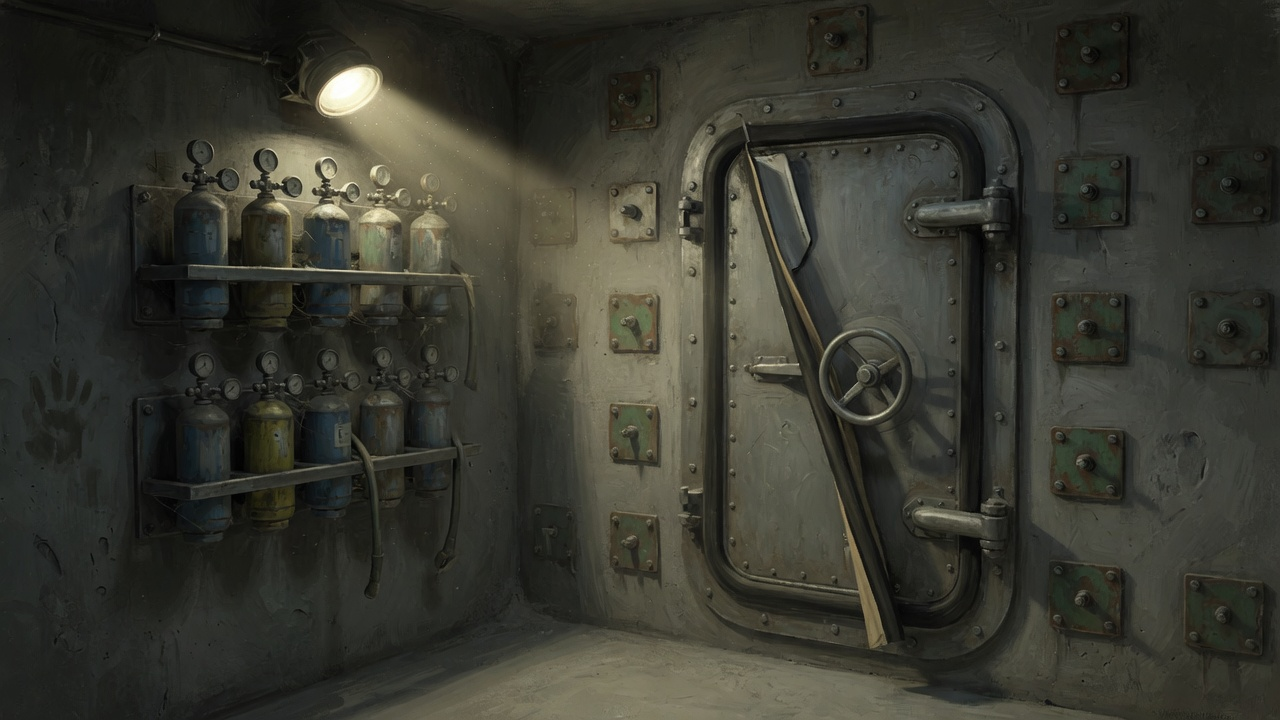
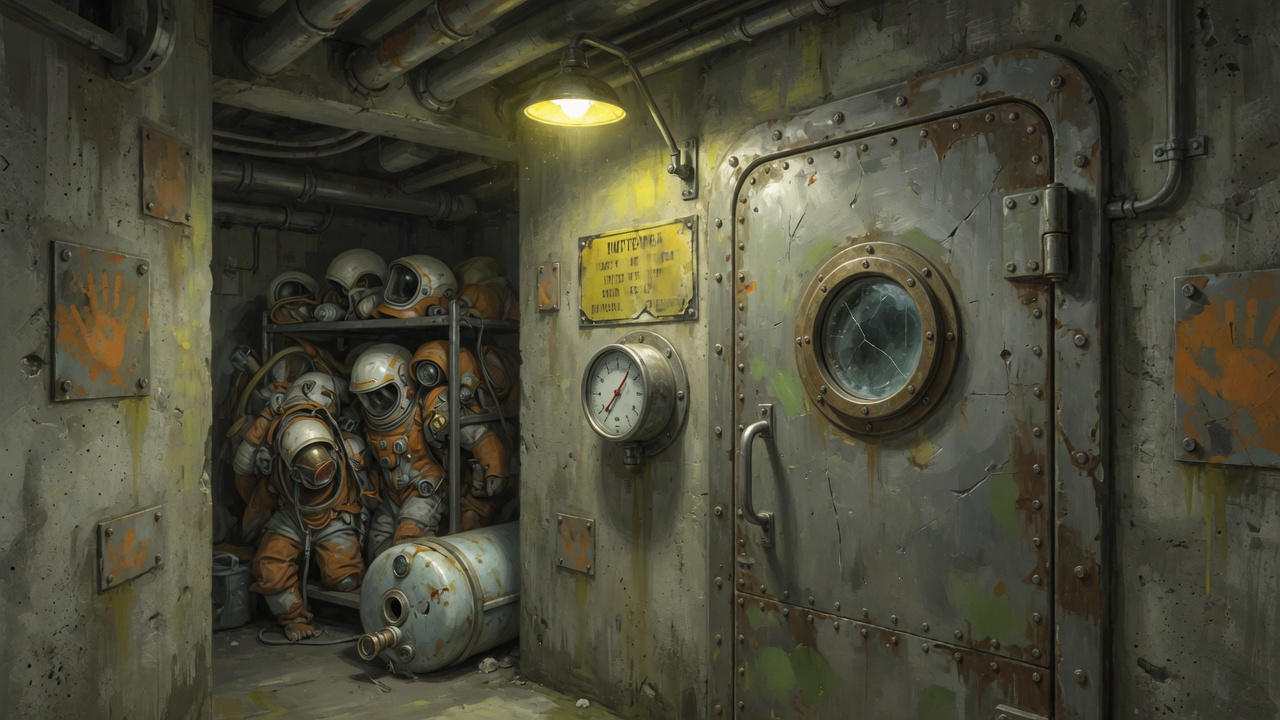
📎🔗 The plate, the docs and a rock you can actually boot onto (#619)
The painting is the new one from the inbox, to the owner's own prompt: an airless
corridor, a pressure-refuge door welded shut, a dead gauge at zero, an inspectorate
plate, and — beside the door — a rack with far too many suits on it and an emptied
reservoir on the deck. The manifest entry is rewritten to it, including the one place
the negative list bends (a plate the prompt asks for, painted as an illegible tag; the
plate the captain READS is drawn by the deck renderer and is not doubled in pixels).

?secretlab=sealed is the fourth cheat rock, and it exists because none of the other
three happens to carry the story — a welded refuge is on one floor of one site in four,
so the beat could not be reached from a URL at all. Same shape as ?secretlab=deep and
?found=1 before it: the rock's NAME is the site's whole seed, nothing Core says is
overridden, and a guard pins that secret-lab-site-sealed still carries it on B3 ·
LONG STORAGE — because a document full of confident URLs that land on the wrong floor
is worse than no document.

§13.12a re-measured (815 dead floors: 83.1 % holding, 16.9 % drawn down) and §13.12b
written: the law, the six surfaces in a table, and the numbers as the sweep reads them
today — 21 sites of 100 carry the story, 18 of those floors grew the second room, and
all 18 stand beside a working refuge. The three that did not are floors whose pool had
nothing left at the detour distance: the law is "never the only refuge on its floor",
[…]

diff --git a/tests/SpaceSails.Core.Tests/TheRefugeThatFailedTests.cs b/tests/SpaceSails.Core.Tests/TheRefugeThatFailedTests.cs
@@ -261,6 +261,31 @@ public sealed class TheRefugeThatFailedTests
         Assert.Equal(0, close);
     }
 
+    /// <summary>#619 · <b>THE CHEAT ROCK STILL REACHES THE BEAT.</b>
+    ///
+    /// <para><c>?secretlab=sealed</c> parks a rock whose body id is <c>secret-lab-site-sealed</c>, and a
+    /// site's whole shape is seeded off that id — so the URL reaches the refuge that failed by NAME rather
+    /// than by overriding anything from the client. The risk that buys is the one the deep rock's own
+    /// docblock names: a change to the seeding could quietly move the story off that site, and the cheat
+    /// would go on booting a perfectly ordinary building while the testing-links row promised a welded
+    /// door.</para>
+    ///
+    /// <para>The FLOOR is pinned too, because the row in <c>docs/testing-links-the-hive.md</c> says
+    /// <c>&amp;floor=3</c> — and a document full of confident URLs that land on the wrong floor is worse
+    /// than no document (§13.19's own lesson).</para></summary>
+    [Fact]
+    public void TheSealedCheatRockStillCarriesTheStoryOnB3()
+    {
+        const string Rock = "secret-lab-site-sealed";
+        Assert.Equal(-3, UndergroundComplex.FailedRefugeFloorOf(Rock));
+        Assert.Contains(-3, UndergroundComplex.FloorsOf(Rock));
+
+        UndergroundComplex.FloorPlan floor = UndergroundComplex.Build(Rock, -3, Field);
+        Assert.Single(floor.Refuges, r => r.State == UndergroundComplex.RefugeState.Failed);
+        Assert.Contains(floor.Refuges, r => r.State != UndergroundComplex.RefugeState.Failed);
+        Assert.Contains(floor.Locked, l => UndergroundComplex.IsTheWeldedRefugePlate(l.Sign));
+    }
+
     // ── THE WORDS ───────────────────────────────────────────────────────────────────────────────────────
 
     [Fact]

diff --git a/src/SpaceSails.Client/Pages/Map.Sim.Cheats.cs b/src/SpaceSails.Client/Pages/Map.Sim.Cheats.cs
@@ -143,6 +143,21 @@ public partial class Map
     /// it), and five copies of a magic string is the habit this repo's spec opens with a table of.</para></summary>
     private const string SecretLabFoundCheatBodyId = UndergroundComplex.FoundBandCheatSiteId;
 
+    /// <summary>#619 · The <c>?secretlab=sealed</c> rock, chosen exactly the way its siblings were: a site's
+    /// whole shape is seeded off its BODY ID, so reaching the refuge that failed from a URL is a matter of
+    /// parking a rock with the right name rather than of overriding a Core fact from the client.
+    ///
+    /// <para>The refuge that failed is on <b>one floor of one site in four</b>
+    /// (<c>UndergroundComplex.SitesPerFailedRefuge</c>), and none of the other three cheat rocks happens to
+    /// carry one — so the beat could not be reached from a URL at all, which is exactly the tax these cheats
+    /// exist to remove and exactly the sentence #592 wrote when it added the second rock.</para>
+    ///
+    /// <para>This one is an eight-floor site whose story is on <b>B3 · LONG STORAGE</b>, with the welded room
+    /// and a working refuge on the same floor — which is the whole law a tester has gone down there to look
+    /// at. The suffix is the search that found it and is not decoration: the generator's own dice decide
+    /// which ids carry the story.</para></summary>
+    private const string SecretLabSealedCheatBodyId = "secret-lab-site-sealed";
+
     private static BodyDefinition SecretLabSiteBody(string berthId, string id, string name) => new()
     {
         Id = id,

diff --git a/src/SpaceSails.Client/Pages/Map.Sim.World.Build.cs b/src/SpaceSails.Client/Pages/Map.Sim.World.Build.cs
@@ -140,11 +140,17 @@ public partial class Map
                 // #677 · Three rocks now, one cheat shape. `?found=1` is the deepest of them and it implies
                 // `?secretlab=1`, because there is no other way down: the halls hang off a band nobody
                 // listed, which hangs off a facility, which is reached through a shed.
+                // #619 · FOUR rocks now, one cheat shape. The fourth carries the refuge that failed, and it
+                // is chosen the same way the other three were: a site's whole shape is seeded off its body
+                // id, so a beat that is on one floor of one site in four becomes reachable from a URL
+                // without one Core fact being overridden from the client.
                 (string rockId, string rockName) = _foundCheat
                     ? (SecretLabFoundCheatBodyId, "The Hermit's Deep Rock")
                     : q.SecretlabDeep
                         ? (SecretLabDeepCheatBodyId, "The Deep Hermit's Rock")
-                        : (SecretLabCheatBodyId, "The Hermit's Rock");
+                        : q.SecretlabSealed
+                            ? (SecretLabSealedCheatBodyId, "The Sealed Hermit's Rock")
+                            : (SecretLabCheatBodyId, "The Hermit's Rock");
                 scenario = scenario with
                 {
                     Bodies = [.. scenario.Bodies, SecretLabSiteBody(berthId, rockId, rockName)],

diff --git a/src/SpaceSails.Client/Pages/Map.Sim.World.QueryArcs.cs b/src/SpaceSails.Client/Pages/Map.Sim.World.QueryArcs.cs
@@ -273,7 +273,7 @@ public partial class Map
             // Documented in the PR body. (Ordinary bodies hide labs rarely, off the seed — this is the
             // fast path.)
             string candidate = Uri.UnescapeDataString(pair["secretlab=".Length..]).ToLowerInvariant();
-            q.SecretlabCheat = candidate is "1" or "true" or "yes" or "deep";
+            q.SecretlabCheat = candidate is "1" or "true" or "yes" or "deep" or "sealed";
 
 
             // #592 · ?secretlab=deep parks a rock whose site HAS a band nobody listed. The ordinary
@@ -281,6 +281,12 @@ public partial class Map
             // with nothing under it, so #592 could not be reached from a URL at all — which is the exact
             // tax these cheats exist to remove.
             q.SecretlabDeep = candidate is "deep";
+
+            // #619 · ?secretlab=sealed parks a rock whose site carries THE REFUGE THAT FAILED, on B3. The
+            // same sentence as the one above, one feature along: the welded room is on one floor of one
+            // site in four, none of the other three cheat rocks happens to have one, and a beat nobody can
+            // reach on demand is a beat that ships broken.
+            q.SecretlabSealed = candidate is "sealed";
         }
         else if (pair.StartsWith("body=", StringComparison.OrdinalIgnoreCase))
         {

diff --git a/src/SpaceSails.Client/Pages/Map.Sim.World.cs b/src/SpaceSails.Client/Pages/Map.Sim.World.cs
@@ -61,6 +61,7 @@ public partial class Map
         public bool WreckCheat; // #488 /map?wreck=1: spawn a derelict in shuttle range — board her, read her, then file or strip
         public Derelict.WreckCause? WreckCauseCheat; // #488 /map?wreck=<cause>: board a wreck that died THAT way
         public bool SecretlabDeep; // #592 /map?secretlab=deep: the rock whose site hides a band
+        public bool SecretlabSealed; // #619 /map?secretlab=sealed: the rock whose site carries the refuge that failed (B3)
         public bool SecretlabCheat; // #409 /map?secretlab=1: spawn a landable rock in shuttle range that hides a Vantar lab, door pre-revealed
         public string? KaamosCheat; // #411 /map?kaamos=N|all: assemble N KAAMOS fragments (or all) so the readout + reach notice are testable; ?kaamos=pod|holder instead SEATS the rare find so it can be EARNED
         public bool BondCheat; // #429 /map?bond=1: dock at a bar with strangers + force the next ambient scare to bond (the cognac beat)

diff --git a/docs/features/the-landing-site.md b/docs/features/the-landing-site.md
@@ -1420,13 +1420,13 @@ emergency station most probably still works decades or centuries after everythin
 and reliability were the metrics it was built to ... They almost never fail from old age; something happened,
 and we tell it."* So every airless floor still has its refuge (13.12 is untouched) and
 `UndergroundComplex.StateOfTheRefugeOn` now answers HOLDING unless something *happened* to the room. Measured
-over 816 dead floors of 100 sites:
+over 815 dead floors of 100 sites:
 
 | seal | what happens at the door | share |
 | --- | --- | --- |
-| **HOLDING** | the door cycles, the rack has bottles, the tank fills | 80.9 % |
-| **EMPTY** | the door cycles, the rack was drawn down by a visitor, the cracker gives it back | 16.3 % |
-| **FAILED** | the seal went, and not from age. On the plan, on the tracker, and dead | 2.8 % |
+| **HOLDING** | the door cycles, the rack has bottles, the tank fills | 83.1 % |
+| **EMPTY** | the door cycles, the rack was drawn down by a visitor, the cracker gives it back | 16.9 % |
+| **FAILED** | the seal went, and not from age — and since **#619 it is never this refuge**. See 13.12b | — |
 
 - **`DepartmentsThatKeptTheLine` is retired, and the reason is the ruling.** The old law — a refuge holds if
   and only if its department could still get a maintenance line approved — was *our* mechanic, not the
@@ -1441,12 +1441,10 @@ over 816 dead floors of 100 sites:
   the captain stands there. It costs **time** and never buys **range** — which is the same sentence the old
   EMPTY told, arriving now off a machine that is running rather than off one that is dead. The plate at range
   still reads `REFUGE · DRY`, and pressing [E] reads the gauge (the trickle line) rather than refusing.
-- **FAILED is an event.** At most one per site, on 23 sites in 100, and **never the first refuge a captain can
-  reach on that ground** — "first" read off the order the plan already has (`FloorsOf`), because a captain's
-  first refuge is where they learn what a refuge IS and a first one that will not cycle teaches the opposite
-  of the truth. Arriving raises `StoryBeats.Beat.RefugeFailed`, once per site, with `art/refuge-failed.jpg`
-  and one line: *"The rack is full; nobody ever drew on it. The seal was cut from the inside, cleanly, and
-  closed again from the outside. It did not fail from age."* The card never says what came through.
+- **FAILED is an event, and 13.12b is where it lives now.** At most one per site, on 21 sites in 100, and
+  **never the first refuge a captain can reach on that ground** — "first" read off the order the plan already
+  has (`FloorsOf`), because a captain's first refuge is where they learn what a refuge IS and a first one that
+  will not cycle teaches the opposite of the truth. What #619 changed is *which room it is*: not this one.
 - **The inspection tag, on every refuge** — the covert organisation's paradox on paper. Owner, in the same
   ruling: a secret lab's eternal struggle is *"not to asphyxiate from unmaintained safety equipment, to keep
   secrets, to trust employees to bend the law only as much as the company approves, while avoiding traceable
@@ -1460,21 +1458,60 @@ over 816 dead floors of 100 sites:
   one of the floor's rooms — `CarveRefuges` takes it out of the list — and a negative index is one no floor
   can ever hold.
 - **The lift panel row still says `REFUGE` where the plan carries one, and never which state it is in.** The
-  plan is a drawing made when the building was new; finding out is the walk.
-- **A failed refuge still paints on the tracker, and reads as failed.** Owner: *"a refuge whose seal has failed
-  must still paint, and must read as failed."* Grey, hollow and not breathing; the plate over the door loses
-  the word AIR and takes the dead ink the plate by the lift already uses (§13.13's tone 2).
+  plan is a drawing made when the building was new; finding out is the walk. Since #619 it is also blind to
+  whether this floor carries the welded room — proved shape for shape, the same way it is proved blind to
+  the seal.
 
-*(Enforced: `TheRefugesUndergroundTests` pins the three shares with a ceiling as well as a floor on each,
+*(Enforced: `TheRefugesUndergroundTests` pins the two shares with a ceiling as well as a floor on each,
 proves HOLDING is the default on all six branch plates a refuge can wear and in the head office and the band
-nobody listed, proves at most one FAILED per site and never the first one reached, proves the tag's two
-entries verbatim on the site's own clock and the third entry undated, proves the carved room carries the law's
-own answer, and proves no drawable field of a panel row differs between the three seals. `TheSealOnTheRefuge‐
-Tests` stands the shipping component in the generator's own refuge on one floor per seal and drives
-`StepSuitAir`: the maintained rack fills a tank and is spent doing it, the drawn-down one gives back exactly
-what the cracker makes and no more, a failed one spends tank and raises the card once with its painting, a
-working one raises nothing, and every refuge hands over its tag once with the head the sleeve reads it by.
-Every one of them was watched go **red** on a deliberately broken build.)*
+nobody listed, proves at most one failed refuge per site and never on the first floor a captain reaches,
+proves the tag's two entries verbatim on the site's own clock and the third entry undated, proves the carved
+room carries the law's own answer, and proves no drawable field of a panel row differs between the seals or
+between a floor with the story and one without. `TheSealOnTheRefugeTests` stands the shipping component in
+the generator's own refuge on one floor per seal and drives `StepSuitAir`: the maintained rack fills a tank
+and is spent doing it, the drawn-down one gives back exactly what the cracker makes and no more, a working
+one raises no card, and every refuge hands over its tag once with the head the sleeve reads it by. Every one
+of them was watched go **red** on a deliberately broken build.)*
+
+13.12b **The refuge that failed — one, placed, and never the only one on its floor** (#619). Owner, filing
+it: *"But a SECOND refuge, on one floor, that failed — that is the story. Not a dice roll on every refuge.
+One, placed, deliberate, and never the only one on its floor, so it can never kill anybody who trusted the
+instrument."*
+
+That last clause is the whole design, and it is what #1149 had wrong. #1149 put FAILED on the floor's ONE
+refuge, so a captain who read `REFUGE` on the lift panel, walked a tank down a rib and found a dead door had
+been killed by the plan — by the very instrument 13.12 exists to make trustworthy. So the room that failed is
+an **extra chamber**, carved second out of what the working one left, on **one floor of one site in four**
+(`SitesPerFailedRefuge`, which is the only place the rate is stated). Measured over 100 sites: **21 sites
+carry the story, 18 of those floors actually grew the second room, and all 18 stand beside a working refuge.**
+The three that did not are floors whose room pool had nothing left at the detour distance — the law is
+"never the only refuge on its floor", and the way to keep a law like that is to let the beat go rather than
+the safety regulation.
+
+| what | how it reads |
+| --- | --- |
+| the **door** | welded from the inside. In code a `LockedDoor` across **every** way into that chamber — a leaf that never opens with a real wall behind it — so the renderer, the walkers, the Reevers and the A\* audit all learn it from a list they already read |
+| the **plate** | `🫁 REFUGE — OUT OF SERVICE — REPORTED`, tone 2. The inspectorate's own flat register; *REPORTED* says a notice went somewhere and nothing about what was in it, who read it, or whether anybody came |
+| the **tracker** | the grey ring, hollow, dimmer, **not breathing** — never the calm ink that has meant AIR YOU CAN REACH since #573 — at every range it is drawn, and the working refuge on the same floor keeps its calm ring beside it. The instrument column carries the legend `🫁 refuge · dark` while one is on the glass |
+| the **rack** | there is none. The room carries a `HiveRefugeDark` console and not a `HiveRefuge`, so it never joins the list the drain, the gauge, the rack and the calm ring all walk: the shelter machinery refuses it the way it refuses a wall, rather than by every caller remembering to ask |
+| the **gun** | a weld is not a hasp. It answers `HasNoReader` beside the rib's sealed mouth and the stop order's plate, so no card opens it and no sentry shoots it (#803 is right about a lock and wrong about this) |
+| the **card** | [E] at the door raises `StoryBeats.Beat.RefugeFailed`, once per captain per site, with `art/refuge-failed.jpg` and one authored line: *"The door is welded from the inside, and the weld is careful. The gauge beside it reads what the room has, which is nothing. On the rack outside are more suits than this floor ever had staff, and the reservoir on the deck was emptied by somebody who then did not leave."* |
+| the **book** | the same press files the gist under the **place** (#741): *"the refuge on B7 · LONG STORAGE — welded from the inside, suits for more than the floor, the tank drained by someone who stayed"* |
+
+**Canon holds hardest here (§13.8).** The card makes three flat observations and stops; its only conclusion is
+a thing that did **not** happen. Nothing anywhere — plate, legend, card, book — names a cause, a maker, an
+outcome or the reserved word, and a sweep over all five surfaces says so with a word-boundary match wide
+enough to catch *age* and *decay* as well as *Reever*.
+
+*(Enforced: `TheRefugeThatFailedTests` — never alone on its floor, swept over every generated floor of a
+hundred sites; the floor's own refuge never answers FAILED; the weld is on every way in and the plate hangs
+at one of them and never at the room's centre; it is a detour like every other refuge; the authored lines
+verbatim; and the §13.8 sweep. Every guard counts what it found and demands it in quantity, because "the
+tracker never paints it as a haven" is perfectly true of a world with no failed refuge in it.
+`TheSealOnTheRefugeTests` adds the client half: both plates on one floor at two tones, the welded room as no
+shelter at all while the working one still fills a tank, and the fan read at forty ranges from the door out
+past the clamp. Watched go **red** on four deliberate reverts — no second refuge carved, the #1149 behaviour
+restored, the law answering FAILED again, and the welded room let back into the air machinery.)*
 
 13.13 **The plate by the lift says the depth, the department, and whether you can breathe** (#612) — three
 lines, one eye-line, on the wall you face when the doors open. The atmosphere line is `SuitAir.PlateLine` off

diff --git a/docs/testing-links-the-hive.md b/docs/testing-links-the-hive.md
@@ -734,18 +734,55 @@ door, no shelf, no lamp — and the floors still hold air with no visible means.
 ```
 /map?secretlab=deep&land=1&floor=2&air=90     a dead floor with ninety seconds in the tank
 /map?secretlab=deep&land=1&floor=7            B7 — deep, dead, and one refuge somewhere on it
+/map?secretlab=sealed&land=1&floor=3          B3 · LONG STORAGE — TWO refuges, and one of them is welded shut
 ```
 
 Every airless floor carries at least one pressure refuge. The tracker paints them and never the surface
 shelters. The plate over the lift car says the depth, the department, **and whether you can breathe** — check
 it agrees with the HUD, because §13.13's whole law is that those two may never disagree.
 
-**And what the decades did to it (§13.12a).** The room is on every dead floor; the seal is not. A floor whose
-department is `ADMINISTRATION` or `LABORATORIES` still has air in the rack (the tank climbs, and the rack goes
-down as it does); everywhere else the room either holds with nothing to give (the drain stops, the gauge sits
-still) or has failed outright (the plate loses the word AIR, the tracker ring goes grey and hollow, and your
-tank goes on running while you stand in it). The lift panel prints `REFUGE` against every dead floor and never
-says which of the three you are about to walk to.
+**And what the decades did to it (§13.12a).** The room is on every dead floor and the seal almost always
+holds: the rack has bottles and the tank climbs, or the rack was drawn right down by somebody who got there
+first — and then the drain still stops, the plate reads `REFUGE · DRY`, and the cracker gives it back while
+you stand there. The lift panel prints `REFUGE` against every dead floor and never says which of the two you
+are about to walk to.
+
+### The refuge that failed (§13.12b, #619) — `?secretlab=sealed&floor=3`
+
+The third link is the only one of the four cheat rocks that reaches it: the welded room is on **one floor of
+one site in four**, and `secret-lab-site-sealed`'s floor is **B3 · LONG STORAGE**. Ride down and stand at the
+car before you move.
+
+**What the tracker shows from the lift.** Two rings that are not the way home, and they do not look alike:
+
+| ring | what it means |
+| --- | --- |
+| the **calm** one — breathing, with a filled centre | the floor's working refuge: air you can reach |
+| the **grey** one — hollow, dimmer, **not breathing** | the room that failed. On the fan because it is on the plan, and never in the ink that means air |
+
+Under the tracker readout, in the instrument column, the legend: **`🫁 refuge · dark`**. Walk anywhere on the
+floor and both rings stay as they are; walk far enough and they clamp to the rim, which eats the RANGE and
+never the ink. Neither ring ever goes violet or way-home blue.
+
+**What is on the deck.** Two `🫁 REFUGE` plates on one floor, at two tones — `🫁 REFUGE · AIR` (or `· DRY`) in
+the breathe-here ink, and `🫁 REFUGE — OUT OF SERVICE — REPORTED` in the same dead ink the lift plate uses to
+say your tank is running. The welded door has a leaf drawn shut with a real wall behind it: **you cannot get
+in, and a sentry cannot shoot it open** — a weld is not a hasp.
+
+**What E reads,** at the welded door, once per captain per site:
+
+> **🫁 THE REFUGE THAT FAILED**
+> *The door is welded from the inside, and the weld is careful. The gauge beside it reads what the room has,
+> which is nothing. On the rack outside are more suits than this floor ever had staff, and the reservoir on
+> the deck was emptied by somebody who then did not leave.*
+
+…with `art/refuge-failed.jpg` above it, and one line into the field book under **B3 · LONG STORAGE**: *"the
+refuge on B3 · LONG STORAGE — welded from the inside, suits for more than the floor, the tank drained by
+someone who stayed"*. Press E again and nothing happens; the card is once.
+
+**Then walk one room over.** The floor's own refuge is where the calm ring is, its door cycles, and it fills
+your tank. That is the law worth checking by hand: **the welded one is never the only refuge on its floor**,
+so the instrument never sent you to your death.
 
 ---
 

diff --git a/docs/testing-guide.md b/docs/testing-guide.md
@@ -687,6 +687,7 @@ launch from the home page.
 | **`?crew=petition`** | **A DEPUTATION — three of them in the corridor outside your door (#663).** Boots holding the voyage the crew send one over: five of them left on the rock (the `?deflection=` gig above is the only thing in the shipped game that kills a crewman), and every wreck since filed honestly, so the share is empty and the bunks are too. It grants those two counters and nothing else — no standing is written and no card is pushed; the ship's own clock reads the crew sheet on the next tick, finds them past `CrewTemp.Standing.Petition`, and the beat arrives through the ordinary door with its cadence spent and its line in the ledger. Read the sheet behind it on the **Captain desk → the crew's report**: PETITION at the top, GETTING HOME on the floor and THE SHARE down with it. `?crew=deputation` is the same door. |
 | **`?crew=meeting`** | **THE MEETING YOU WERE NOT ASKED TO — the cantina at an odd watch, and a chair pulled out that nobody is sitting in (#1066).** The same ruined voyage as `?crew=petition` above, with nobody ashore in five berths on top of it. **The shore-leave rule:** a clamp at a GREAT PORT is a run ashore — that is Ringside Exchange and The Red Eye, the two berths the arrival tube (#541) gives a glazed gangway to — and every other berth is a working stop. Four working stops in a row breaks the captain's word, and every berth past that breaks it again, which is what carries the crew sheet from PETITION down to `CrewTemp.Standing.Ultimatum`. It grants counters and nothing else; the ship's own clock reads the sheet on the next tick and the beat arrives through the ordinary door. Read the sheet on the **Captain desk → the crew's report**: ULTIMATUM at the top, THE CAPTAIN'S WORD on the floor, and the shore-leave footnote under the bars saying how many stops it has been and where the line is. `?crew=ultimatum` is the same door. |
 | **`?secretlab=1`** | **Spawn a landable rock in shuttle range hiding a Vantar SECRET LAB, hidden door pre-revealed (#409).** |
+| **`?secretlab=sealed`** | **Park the one rock whose site carries THE REFUGE THAT FAILED (#619); ride to it with `&land=1&floor=3`.** The welded room is on **one floor of one site in four**, and none of the other three cheat rocks happens to have one — so without this the beat is unreachable from a URL, which is the sentence `?secretlab=deep` was added for one feature along. It overrides no Core fact: a site's whole shape is seeded off its body id (`secret-lab-site-sealed`), so what you walk is what a captain would walk, and `TheRefugeThatFailedTests` pins that the story is still on **B3 · LONG STORAGE** so the link cannot quietly start landing in an ordinary building. **What a tester should see on B3:** two `🫁 REFUGE` plates at two tones, two rings on the fan that do not look alike (one calm and breathing, one grey, hollow and still), the legend `🫁 refuge · dark` under the tracker readout, and a welded leaf with a real wall behind it that no sentry can shoot open — `[E]` there raises **🫁 THE REFUGE THAT FAILED** once, with its painting, and files one line under the floor. Then walk one room over: the floor's OTHER refuge cycles and fills your tank, which is the whole law. Full walkthrough in `docs/testing-links-the-hive.md` §8. |
 | **`?kaamos=N\|all`** | **Assemble the first N PROJEKTI KAAMOS fragments (canonical order), or `all` — the intel readout + reach notice without a playthrough (#411).** |
 | **`?kaamos=bounce`** | **Seat the freight agent holding the docket the board keeps sending back at every bar — PROJEKTI KAAMOS's FRONT DOOR (#635). Press `[E]` at any bar patron, take the job, and the filing bounces off your hull too: the arc appears in the Captain's ledger with no shard in hand.** |
 | **`?kaamos=hq`** | **The whole KAAMOS route already ridden: every shard assembled, the berth-code resolved, the supply run filed, and the ship let go alongside the ice moon (#411). Add `&land=1` to put boots on it.** |

diff --git a/docs/art-manifest-moments.md b/docs/art-manifest-moments.md
@@ -227,24 +227,24 @@ grand gangways are at **Ringside Exchange** and **The Red Eye**, and **Selene Ga
   she has, and she is holding it like proof rather than like evidence.
 - **Negative list:** as above. **No text, no lettering, no signage.**
 
-## 15. `art/refuge-failed.jpg` — THE REFUGE THAT FAILED ✅ PAINTED
-- **Beat:** `RefugeFailed` · **once per subject (the site)** · **CARD** — the captain is standing still in the
-  room, there is nothing to press and nothing to decide, and the card is the whole of the telling (#761).
-- **Fires:** `Map.Surface.Tank.cs · StepSuitAir`, at the door, the first time the captain stands inside a
-  refuge whose `UndergroundComplex.StateOfTheRefugeOn` is `RefugeState.Failed`. There is at most one of those
-  per site (#1149), and never the first refuge a captain can reach on it.
-- **Composition:** INTERIOR, a small poured concrete pressure refuge a hundred and fifty metres under a moon.
-  A full rack of steel air bottles on the left wall, two rows, gauges intact, untouched — nobody ever drew on
-  it. Facing the viewer, a heavy circular-handled pressure door in a bolted frame, and the door leaf **cut
-  open**: a long clean slit through the plate, edges bright and precise, the cut made from the inside and the
-  panel closed again from the outside so it no longer seals. One service lamp high on the left throwing a hard
-  cone across the floor, everything else in deep shadow. Dust undisturbed except by the cut. A faint handprint
-  on the wall beside the rack. Muted desaturated palette, painterly, heavy shadow, no figures.
+## 15. `art/refuge-failed.jpg` — THE REFUGE THAT FAILED ✅ PAINTED (repainted 2026-09-20, #619)
+- **Beat:** `RefugeFailed` · **once per subject (the site)** · **CARD** — the card is the whole of the telling
+  (#761); there is nothing to decide and no way in.
+- **Fires:** `Map.Surface.Shelter.cs · HiveRefugeDarkInteract` — [E] at the welded door. #619 moved it off the
+  suit stepper, because the room is welded shut and nobody stands in it. There is at most one per site
+  (`SitesPerFailedRefuge`, one site in four), on one floor, and never that floor's only refuge.
+- **Composition:** INSIDE AN AIRLESS FACILITY CORRIDOR. A pressure-refuge door welded shut from the inside, a
+  dead gauge at zero beside it, an inspectorate plate on the wall above the gauge, and — in the recess beside
+  the door — a rack holding **far too many suits** for the floor, with an **emptied reservoir** lying on the
+  deck. One service lamp overhead, poured concrete, pipework, heavy shadow, painterly, muted and grimy. No
+  figures.
 - **Rule it illustrates:** they almost never fail from old age. Something happened, and the room is the only
-  witness — the rack is full because whoever left through that door was not short of air.
-- **Negative list:** house rules (no sea, no sky, no daylight, no horizon). **No text, no lettering, no
-  signage** — the plate over this door is drawn by the deck renderer and must not be doubled in pixels. No
-  creature, no body, no tool left in shot, and nothing that says which way anybody went.
+  witness. The suits are the sentence the card does not write: there are more of them than this floor ever
+  had staff, and the tank on the deck was drained by somebody who then did not leave.
+- **Negative list:** house rules (no sea, no sky, no daylight, no horizon). No creature, no body, and nothing
+  that says which way anybody went. **Legible text is still out** — the one exception is the inspectorate
+  plate the prompt asks for, painted as an illegible stamped tag: the plate the captain READS is
+  `🫁 REFUGE — OUT OF SERVICE — REPORTED`, drawn by the deck renderer, and it must not be doubled in pixels.
 
 ## 16. `art/claim-desk.jpg` — THE CLAIM ✅ PAINTED
 - **Beat:** `TheClaim` · **every time** (rationed by the world, not by the seam — a lodging costs a hull) ·
